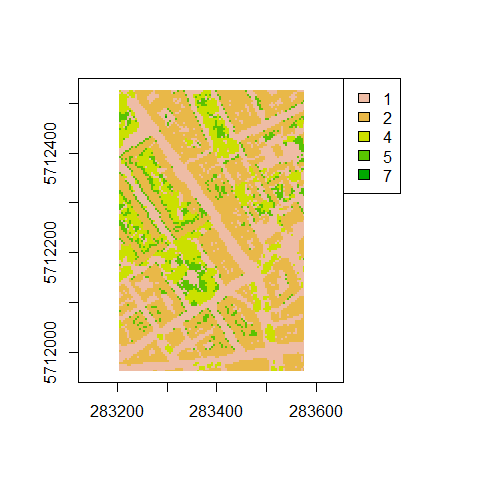
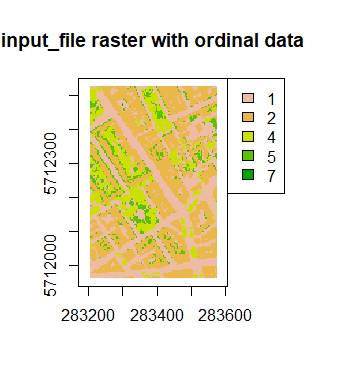
clear

diff --git a/README.md b/README.md
@@ -44,11 +44,11 @@ wip
 
     ## terra version 0.8.6 (beta-release)
 
-    plot(rast("data/sample/sample_input_raster_ordinal.tif"))
+    plot(rast("data/sample/sample_input_raster_ordinal.tif"), main = "input_file raster with ordinal data")
 
 ![](README_files/figure-markdown_strict/unnamed-chunk-2-1.png)
 
-    plot(vect("data/sample/sample_shapefile/sample_shapefile.shp"))
+    plot(vect("data/sample/sample_shapefile/sample_shapefile.shp"), "Input aggregation_file polygon data")
 
 ![](README_files/figure-markdown_strict/unnamed-chunk-2-2.png)
 
@@ -106,7 +106,23 @@ wip
 
     ## [1] "0.01 min"
 
-    plot(terra::rasterize(aggregated_data, rast("data/sample/sample_input_raster_ordinal.tif")))
-    plot(aggregated_data, add = TRUE)
+The output data has same format as `aggregation_file`
 
-![](README_files/figure-markdown_strict/unnamed-chunk-3-1.png)
+    class(aggregated_data)
+
+    ## [1] "SpatVector"
+    ## attr(,"package")
+    ## [1] "terra"
+
+Unlike `aggregation_file` , the polygons (each with unique ID) contain
+the data
+
+    head(aggregated_data)
+
+    ##   ID     fpx_1     fpx_2     fpx_4      fpx_5
+    ## 1  1        NA        NA        NA         NA
+    ## 2  2        NA        NA        NA         NA
+    ## 3  3        NA        NA        NA         NA
+    ## 4  4        NA        NA        NA         NA
+    ## 5  5 0.4444444 0.0000000 0.5555556 0.00000000
+    ## 6  6 0.2266667 0.6266667 0.1333333 0.01333333
